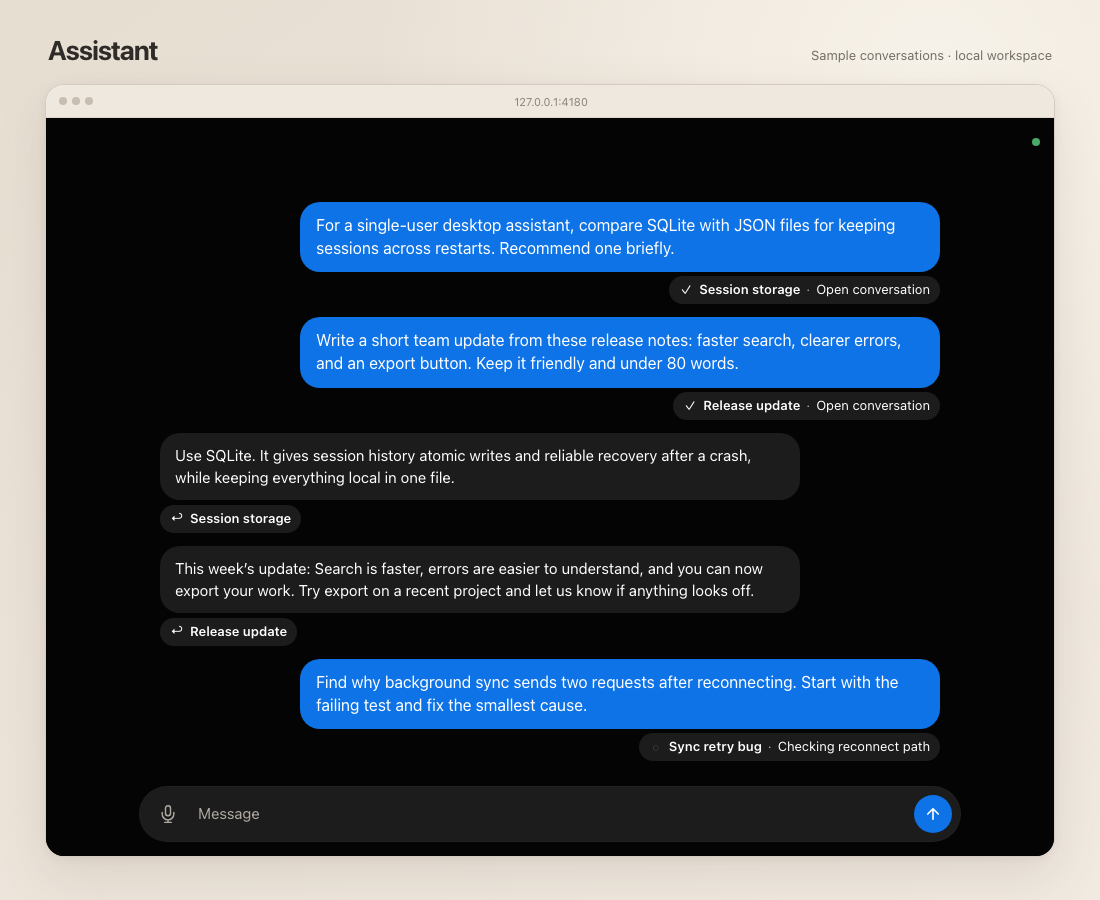
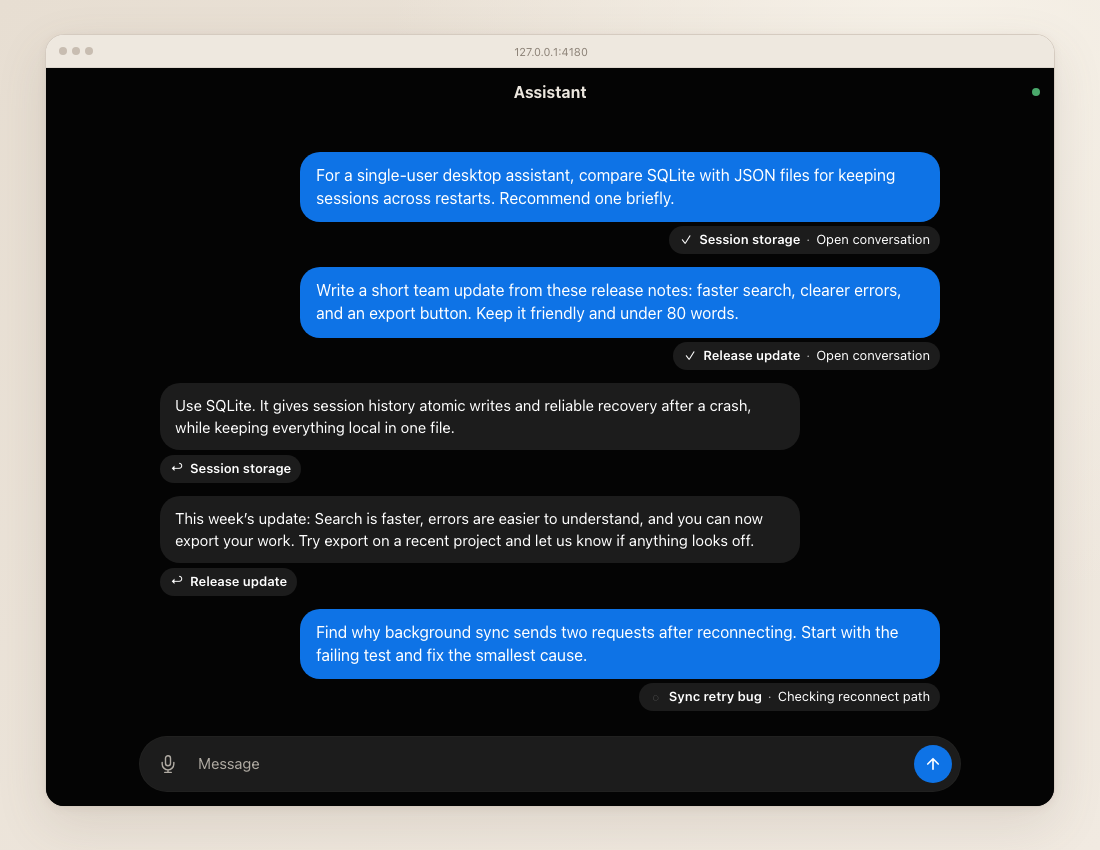
Move Assistant title into Home header

diff --git a/tools/assistant/web/app.js b/tools/assistant/web/app.js
@@ -125,7 +125,7 @@ function render(force = false) {
   const editing = isHome && state.edit;
   const preview = editing ? replyTarget(state.edit.id) : isHome && state.replyToId ? replyTarget(state.replyToId) : null;
   const previewHTML = preview ? `<div class="reply-preview">${quote(editing ? { role: "Editing message", text: preview.text } : preview, "reply-preview-text")}<button type="button" class="dismiss-reply" data-action="${editing ? "dismiss-edit" : "dismiss-reply"}" aria-label="${editing ? "Cancel edit" : "Cancel reply"}" title="${editing ? "Cancel edit" : "Cancel reply"}">${icon("close", 16)}</button></div>` : "";
-  root.innerHTML = `<div class="app-shell"><header class="topbar${isHome ? " home-topbar" : ""}"><div class="topbar-side">${isHome ? "" : homeBackButton()}</div><div class="brand">${isHome ? "" : `<strong>${escapeHTML(record?.title || "Conversation")}</strong>`}</div><div class="topbar-side topbar-end"><span class="connection-dot ${state.connected ? "online" : ""}" title="${state.connected ? "Connected" : "Reconnecting"}"></span></div></header>${isHome ? home() : sessionView()}${state.error ? `<div class="connection-error"><span>${escapeHTML(state.error)}</span><button data-action="dismiss">Dismiss</button></div>` : ""}<footer class="composer-area"><form class="composer ${preview ? "replying" : ""}" id="composer">${previewHTML}<textarea data-focus="composer" rows="1" placeholder="Message" aria-label="Message">${escapeHTML(state.input)}</textarea>${!isHome && record?.status === "running" ? `<button type="button" class="composer-icon steer-button ${state.steer ? "steer-selected" : ""}" data-action="toggle-steer" title="${state.steer ? "Steering after the current tool finishes; click to queue instead" : "Steer after the current tool finishes instead of queueing"}" aria-label="${state.steer ? "Steering active work" : "Steer active work"}" aria-pressed="${state.steer}">${state.steer ? "Steering" : "Steer"}</button><button type="button" class="composer-icon" data-action="stop" title="Stop current run" aria-label="Stop current run">${icon("stop", 17)}</button>` : ""}<button type="submit" class="send-button" aria-label="Send">${icon("send", 18)}</button></form>${editing ? `<div class="composer-hint edit-hint">Sending this will steer the conversation</div>` : state.steer ? `<div class="composer-hint">Steer: your message takes effect after the current tool call</div>` : ""}</footer></div>`;
+  root.innerHTML = `<div class="app-shell"><header class="topbar${isHome ? " home-topbar" : ""}"><div class="topbar-side">${isHome ? "" : homeBackButton()}</div><div class="brand"><strong>${isHome ? "Assistant" : escapeHTML(record?.title || "Conversation")}</strong></div><div class="topbar-side topbar-end"><span class="connection-dot ${state.connected ? "online" : ""}" title="${state.connected ? "Connected" : "Reconnecting"}"></span></div></header>${isHome ? home() : sessionView()}${state.error ? `<div class="connection-error"><span>${escapeHTML(state.error)}</span><button data-action="dismiss">Dismiss</button></div>` : ""}<footer class="composer-area"><form class="composer ${preview ? "replying" : ""}" id="composer">${previewHTML}<textarea data-focus="composer" rows="1" placeholder="Message" aria-label="Message">${escapeHTML(state.input)}</textarea>${!isHome && record?.status === "running" ? `<button type="button" class="composer-icon steer-button ${state.steer ? "steer-selected" : ""}" data-action="toggle-steer" title="${state.steer ? "Steering after the current tool finishes; click to queue instead" : "Steer after the current tool finishes instead of queueing"}" aria-label="${state.steer ? "Steering active work" : "Steer active work"}" aria-pressed="${state.steer}">${state.steer ? "Steering" : "Steer"}</button><button type="button" class="composer-icon" data-action="stop" title="Stop current run" aria-label="Stop current run">${icon("stop", 17)}</button>` : ""}<button type="submit" class="send-button" aria-label="Send">${icon("send", 18)}</button></form>${editing ? `<div class="composer-hint edit-hint">Sending this will steer the conversation</div>` : state.steer ? `<div class="composer-hint">Steer: your message takes effect after the current tool call</div>` : ""}</footer></div>`;
   renderedView = state.selected;
   const scroll = root.querySelector(".scroll-area");
   if (scroll) scroll.scrollTop = state.scroll[state.selected] ?? scroll.scrollHeight;

diff --git a/tools/assistant/web/app.css b/tools/assistant/web/app.css
@@ -47,6 +47,7 @@ button:disabled { opacity: .45; cursor: not-allowed !important; }
 .startup { width: 100%; height: 100%; display: flex; align-items: center; justify-content: center; gap: 10px; color: var(--muted); background: var(--canvas); font-size: 13px; }
 .topbar { flex: 0 0 51px; display: grid; grid-template-columns: 1fr auto 1fr; align-items: center; padding: 0 14px; border-bottom: 1px solid var(--line); position: relative; z-index: 5; }
 .home-topbar { border-bottom: 0; }
+.home-topbar .brand { font-size: 16px; }
 .topbar-side { display: flex; align-items: center; gap: 6px; min-width: 76px; }
 .topbar-end { justify-content: flex-end; }
 .brand { display: flex; align-items: center; justify-content: center; gap: 8px; font-size: 14px; }
